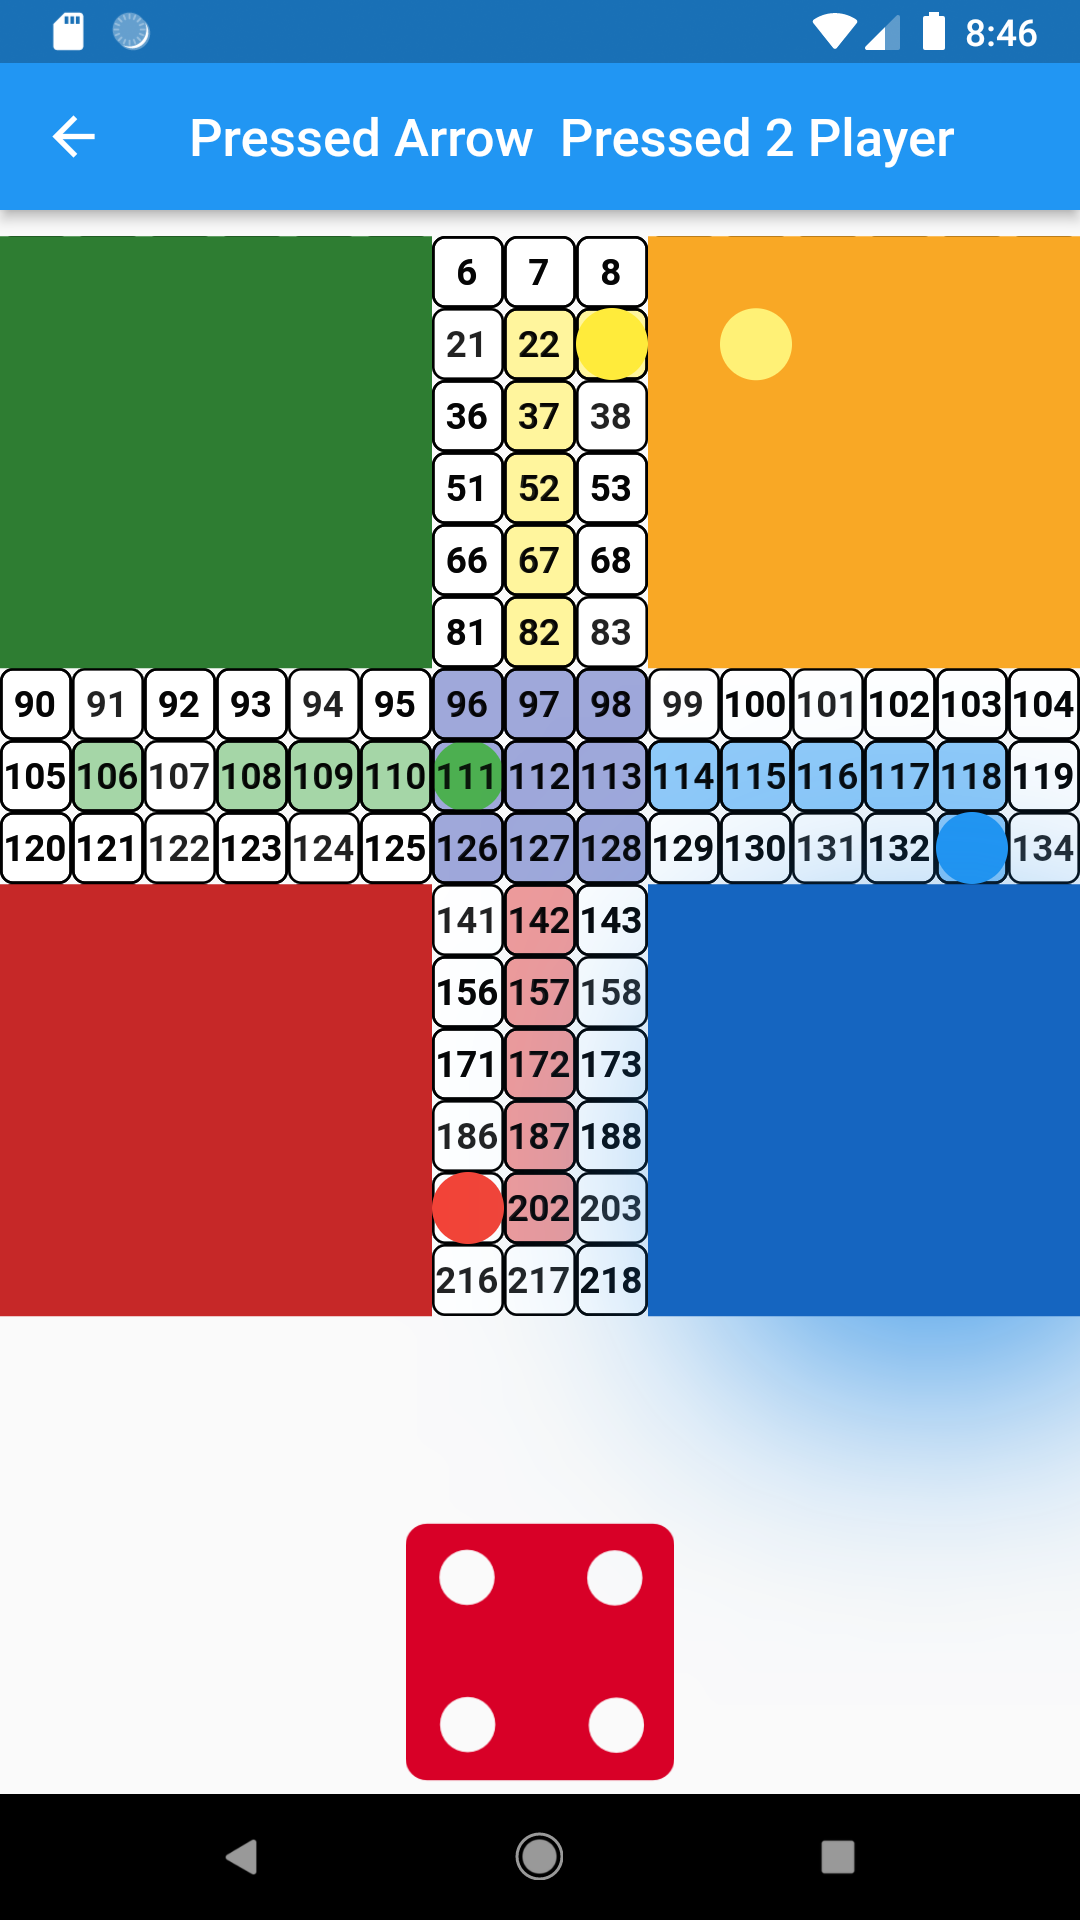
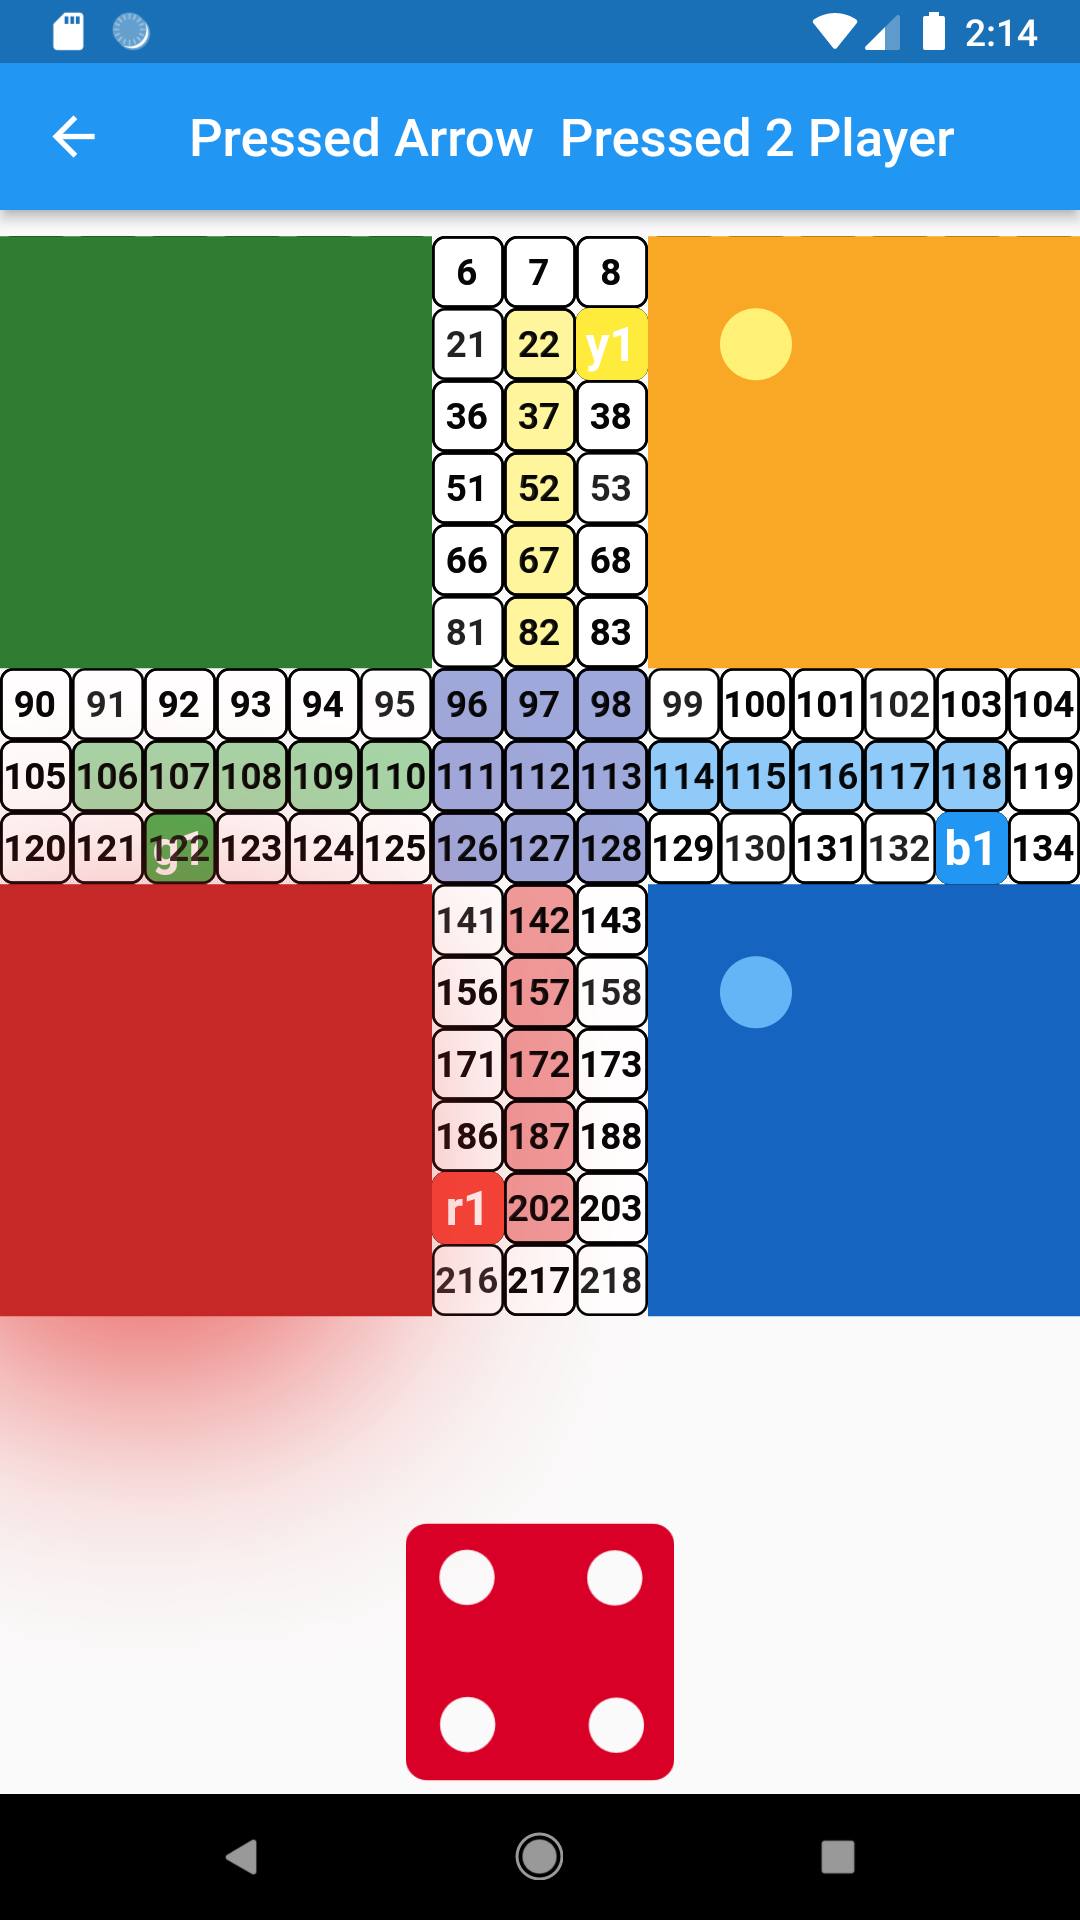
Trying to move a piece by clicking on that piece_ but failed

diff --git a/ludo/lib/screens/ludo_board.dart b/ludo/lib/screens/ludo_board.dart
@@ -65,7 +65,7 @@ class _LudoBoardState extends State<LudoBoard> {
   List allStar = [91, 23, 133, 201];
 
   //Green Pieces:
-  int g1 = 0;
+  int g1 = 1;
   int g1Clear = 0;
   int g2 = 0;
   int g2Clear = 0;
@@ -81,6 +81,7 @@ class _LudoBoardState extends State<LudoBoard> {
 
   // All  Pieces Path:
   List greenPiecePath = [
+    16,
     91,
     92,
     93,
@@ -454,11 +455,41 @@ class _LudoBoardState extends State<LudoBoard> {
                                             )
                                           : Container(),
                                     ),
+                                    // RawMaterialButton(
+                                    //   onPressed: () {
+                                    //     setState(() {
+                                    //       if (g1 + number + 1 <= 56) {
+                                    //         g1Clear = g1;
+                                    //         g1 = number + g1 + 1;
+                                    //         number = 0;
+                                    //       }
+                                    //       print("Print you!!!");
+                                    //     });
+                                    //   },
+                                    //   child: Center(
+                                    //     child: Tile(
+                                    //       pieceName: 'g1',
+                                    //       diceValue: number,
+                                    //       index: index,
+                                    //       color: Colors.green,
+                                    //       pieceSize: pieceSize,
+                                    //       accessedCell: greenPiecePath[g1],
+                                    //     ),
+                                    //   ),
+                                    // ),
                                     Center(
                                       child: Tile(
+                                        pieceName: 'g1',
+                                        diceValue: number,
                                         index: index,
                                         color: Colors.green,
+                                        pieceSize: pieceSize,
                                         accessedCell: greenPiecePath[g1],
+                                        child: RawMaterialButton(
+                                          onPressed: () {
+                                            print("I am being pressed");
+                                          },
+                                        ),
                                       ),
                                     ),
                                     Center(
@@ -467,27 +498,36 @@ class _LudoBoardState extends State<LudoBoard> {
                                         accessedCell: greenPiecePath[g1Clear],
                                       ),
                                     ),
-                                    Center(
-                                      child: Tile(
-                                        index: index,
-                                        color: Colors.yellow,
-                                        accessedCell: yellowPiecePath[y1],
-                                      ),
-                                    ),
-                                    Center(
-                                      child: Tile(
-                                        index: index,
-                                        color: Colors.blue,
-                                        accessedCell: bluePiecePath[b1],
-                                      ),
-                                    ),
-                                    Center(
-                                      child: Tile(
-                                        index: index,
-                                        color: Colors.red,
-                                        accessedCell: redPiecePath[r1],
-                                      ),
-                                    ),
+                                    // Center(
+                                    //   child: Tile(
+                                    //     pieceName: 'y1',
+                                    //     diceValue: number,
+                                    //     index: index,
+                                    //     color: Colors.yellow,
+                                    //     pieceSize: pieceSize,
+                                    //     accessedCell: yellowPiecePath[y1],
+                                    //   ),
+                                    // ),
+                                    // Center(
+                                    //   child: Tile(
+                                    //     pieceName: 'b1',
+                                    //     diceValue: number,
+                                    //     index: index,
+                                    //     color: Colors.blue,
+                                    //     pieceSize: pieceSize,
+                                    //     accessedCell: bluePiecePath[b1],
+                                    //   ),
+                                    // ),
+                                    // Center(
+                                    //   child: Tile(
+                                    //     pieceName: 'r1',
+                                    //     diceValue: number,
+                                    //     index: index,
+                                    //     color: Colors.red,
+                                    //     pieceSize: pieceSize,
+                                    //     accessedCell: redPiecePath[r1],
+                                    //   ),
+                                    // ),
                                   ],
                                 );
                               },
@@ -667,15 +707,21 @@ class _LudoBoardState extends State<LudoBoard> {
                 );
               },
             ),
+            Center(
+                child: Text(
+              "Dice Number: ${number + 1}",
+              style: TextStyle(fontSize: 25),
+            )),
             GestureDetector(
               onTap: () {
+                // print("Dice is rolling");
                 setState(() {
                   number = dice.nextInt(6);
                   //g1 experimental moves:
-                  if (g1 + number + 1 <= 56) {
-                    g1Clear = g1;
-                    g1 = number + g1 + 1;
-                  }
+                  // if (g1 + number + 1 <= 56) {
+                  //   g1Clear = g1;
+                  //   g1 = number + g1 + 1;
+                  // }
                   // number = 5;
 //                  flag = flag % 4;
                   if (flag == 0) {
@@ -690,16 +736,16 @@ class _LudoBoardState extends State<LudoBoard> {
 
                   if (number == 5 && threeSix != 2) {
                     threeSix++;
-                    if (flag == 0) {
+                    if (flag == 0 && greenPiece['g1'] != true) {
                       greenPiece['g1'] = true;
                     }
-                    if (flag == 1) {
+                    if (flag == 1 && yellowPiece['y1'] != true) {
                       yellowPiece['y1'] = true;
                     }
-                    if (flag == 2) {
+                    if (flag == 2 && bluePiece['b1'] != true) {
                       bluePiece['b1'] = true;
                     }
-                    if (flag == 3) {
+                    if (flag == 3 && redPiece['r1'] != true) {
                       redPiece['r1'] = true;
                     }
                   } else {

diff --git a/ludo/lib/widgets/tile.dart b/ludo/lib/widgets/tile.dart
@@ -2,15 +2,23 @@ import 'package:flutter/material.dart';
 
 class Tile extends StatefulWidget {
   Tile({
+    required this.child,
+    required this.diceValue,
+    required this.pieceSize,
+    required this.pieceName,
     required this.color,
     required this.index,
     required this.accessedCell,
     Key? key,
   }) : super(key: key);
 
+  Widget child;
+  final String pieceName;
   final int index;
+  final double pieceSize;
   final int accessedCell;
   final Color color;
+  final int diceValue;
 
   @override
   State<Tile> createState() => _TileState();
@@ -26,14 +34,39 @@ class _TileState extends State<Tile> {
     }
 
     return Container(
+      // child: _isAccessed
+      //     ? Center(
+      //         child: Text(widget.pieceName,
+      //             style: TextStyle(
+      //               fontWeight: FontWeight.bold,
+      //               fontSize: 18,
+      //               color: Colors.white,
+      //             )),
+      //       )
+      //     : Center(
+      //         child: Text(
+      //           "",
+      //           style: TextStyle(fontWeight: FontWeight.bold),
+      //         ),
+      //       ),
+      // child: _isAccessed
+      //     ? RawMaterialButton(
+      //         onPressed: () {
+      //           setState(() {
+      //             print("I am green and I am working.");
+      //           });
+      //         },
+      //       )
+      //     : null,
+      child: widget.child,
+      height: widget.pieceSize,
+      width: widget.pieceSize,
       decoration: BoxDecoration(
-        borderRadius: BorderRadius.circular(500),
+        borderRadius: BorderRadius.circular(5),
         color: _isAccessed ? widget.color : Colors.transparent,
         //   border:
         //       Border.all(color: _isAccessed ? Colors.blue : Colors.transparent),
       ),
-      // child:
-      //     FittedBox(fit: BoxFit.contain, child: Text(widget.index.toString())),
     );
   }
 }
